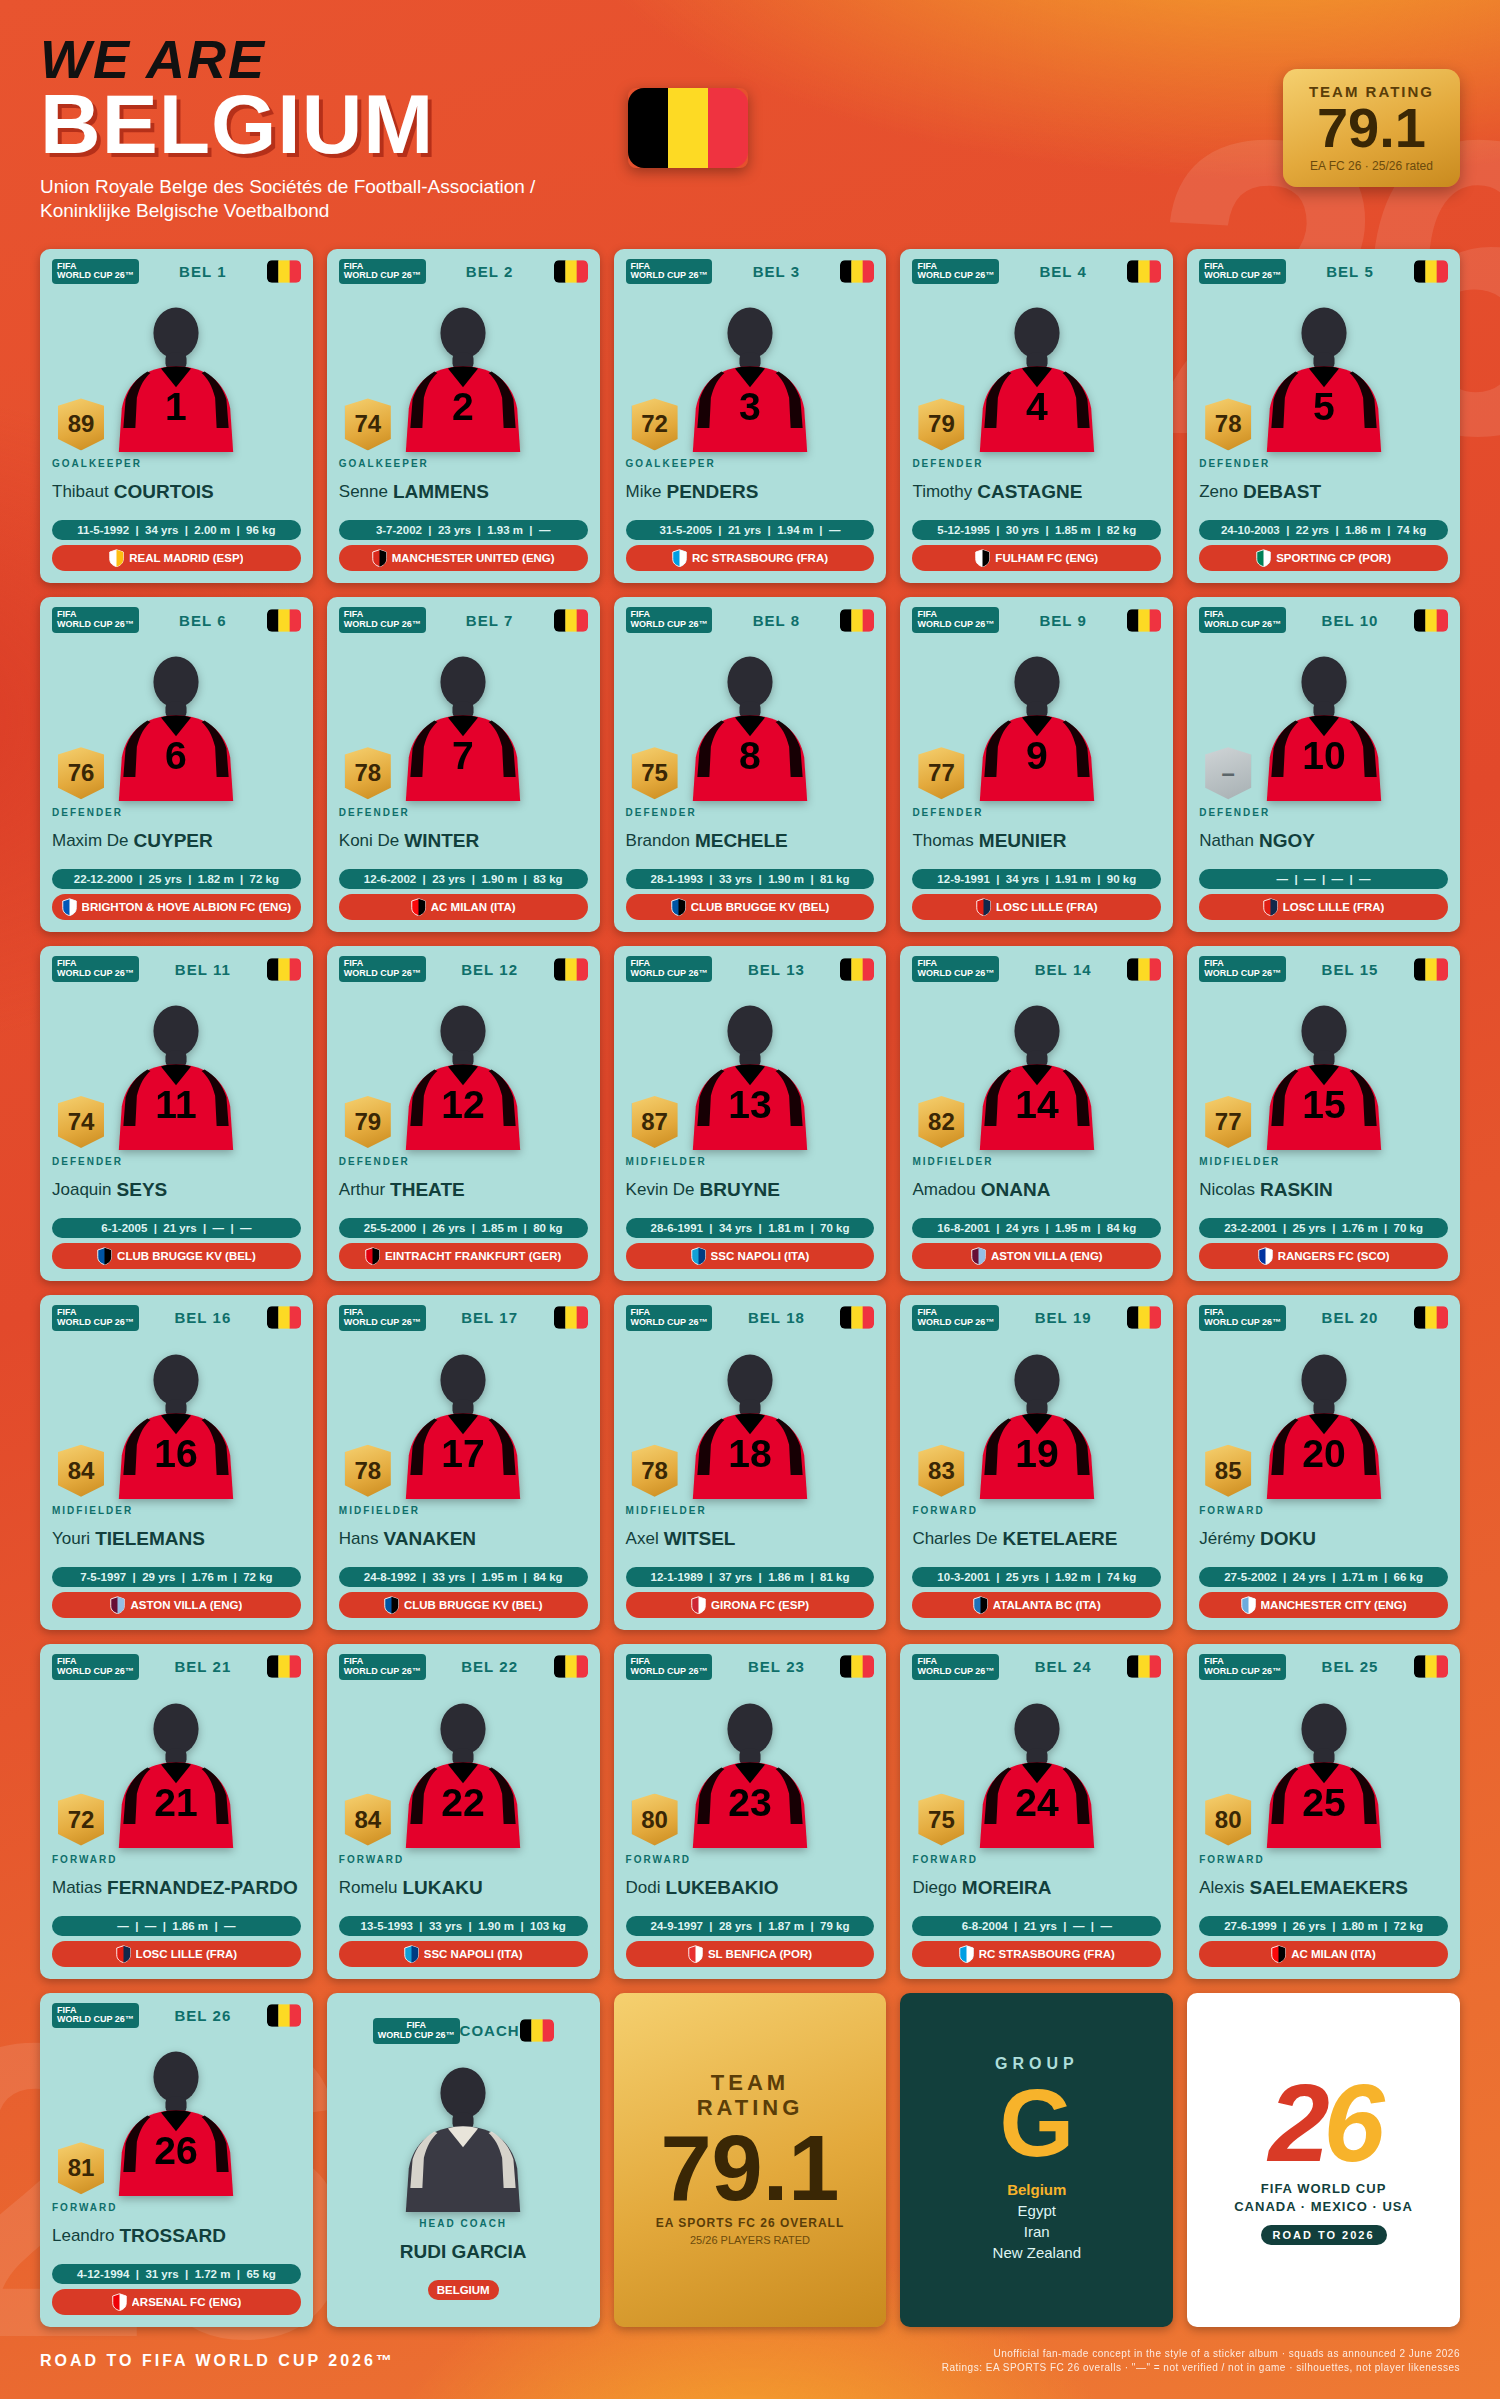
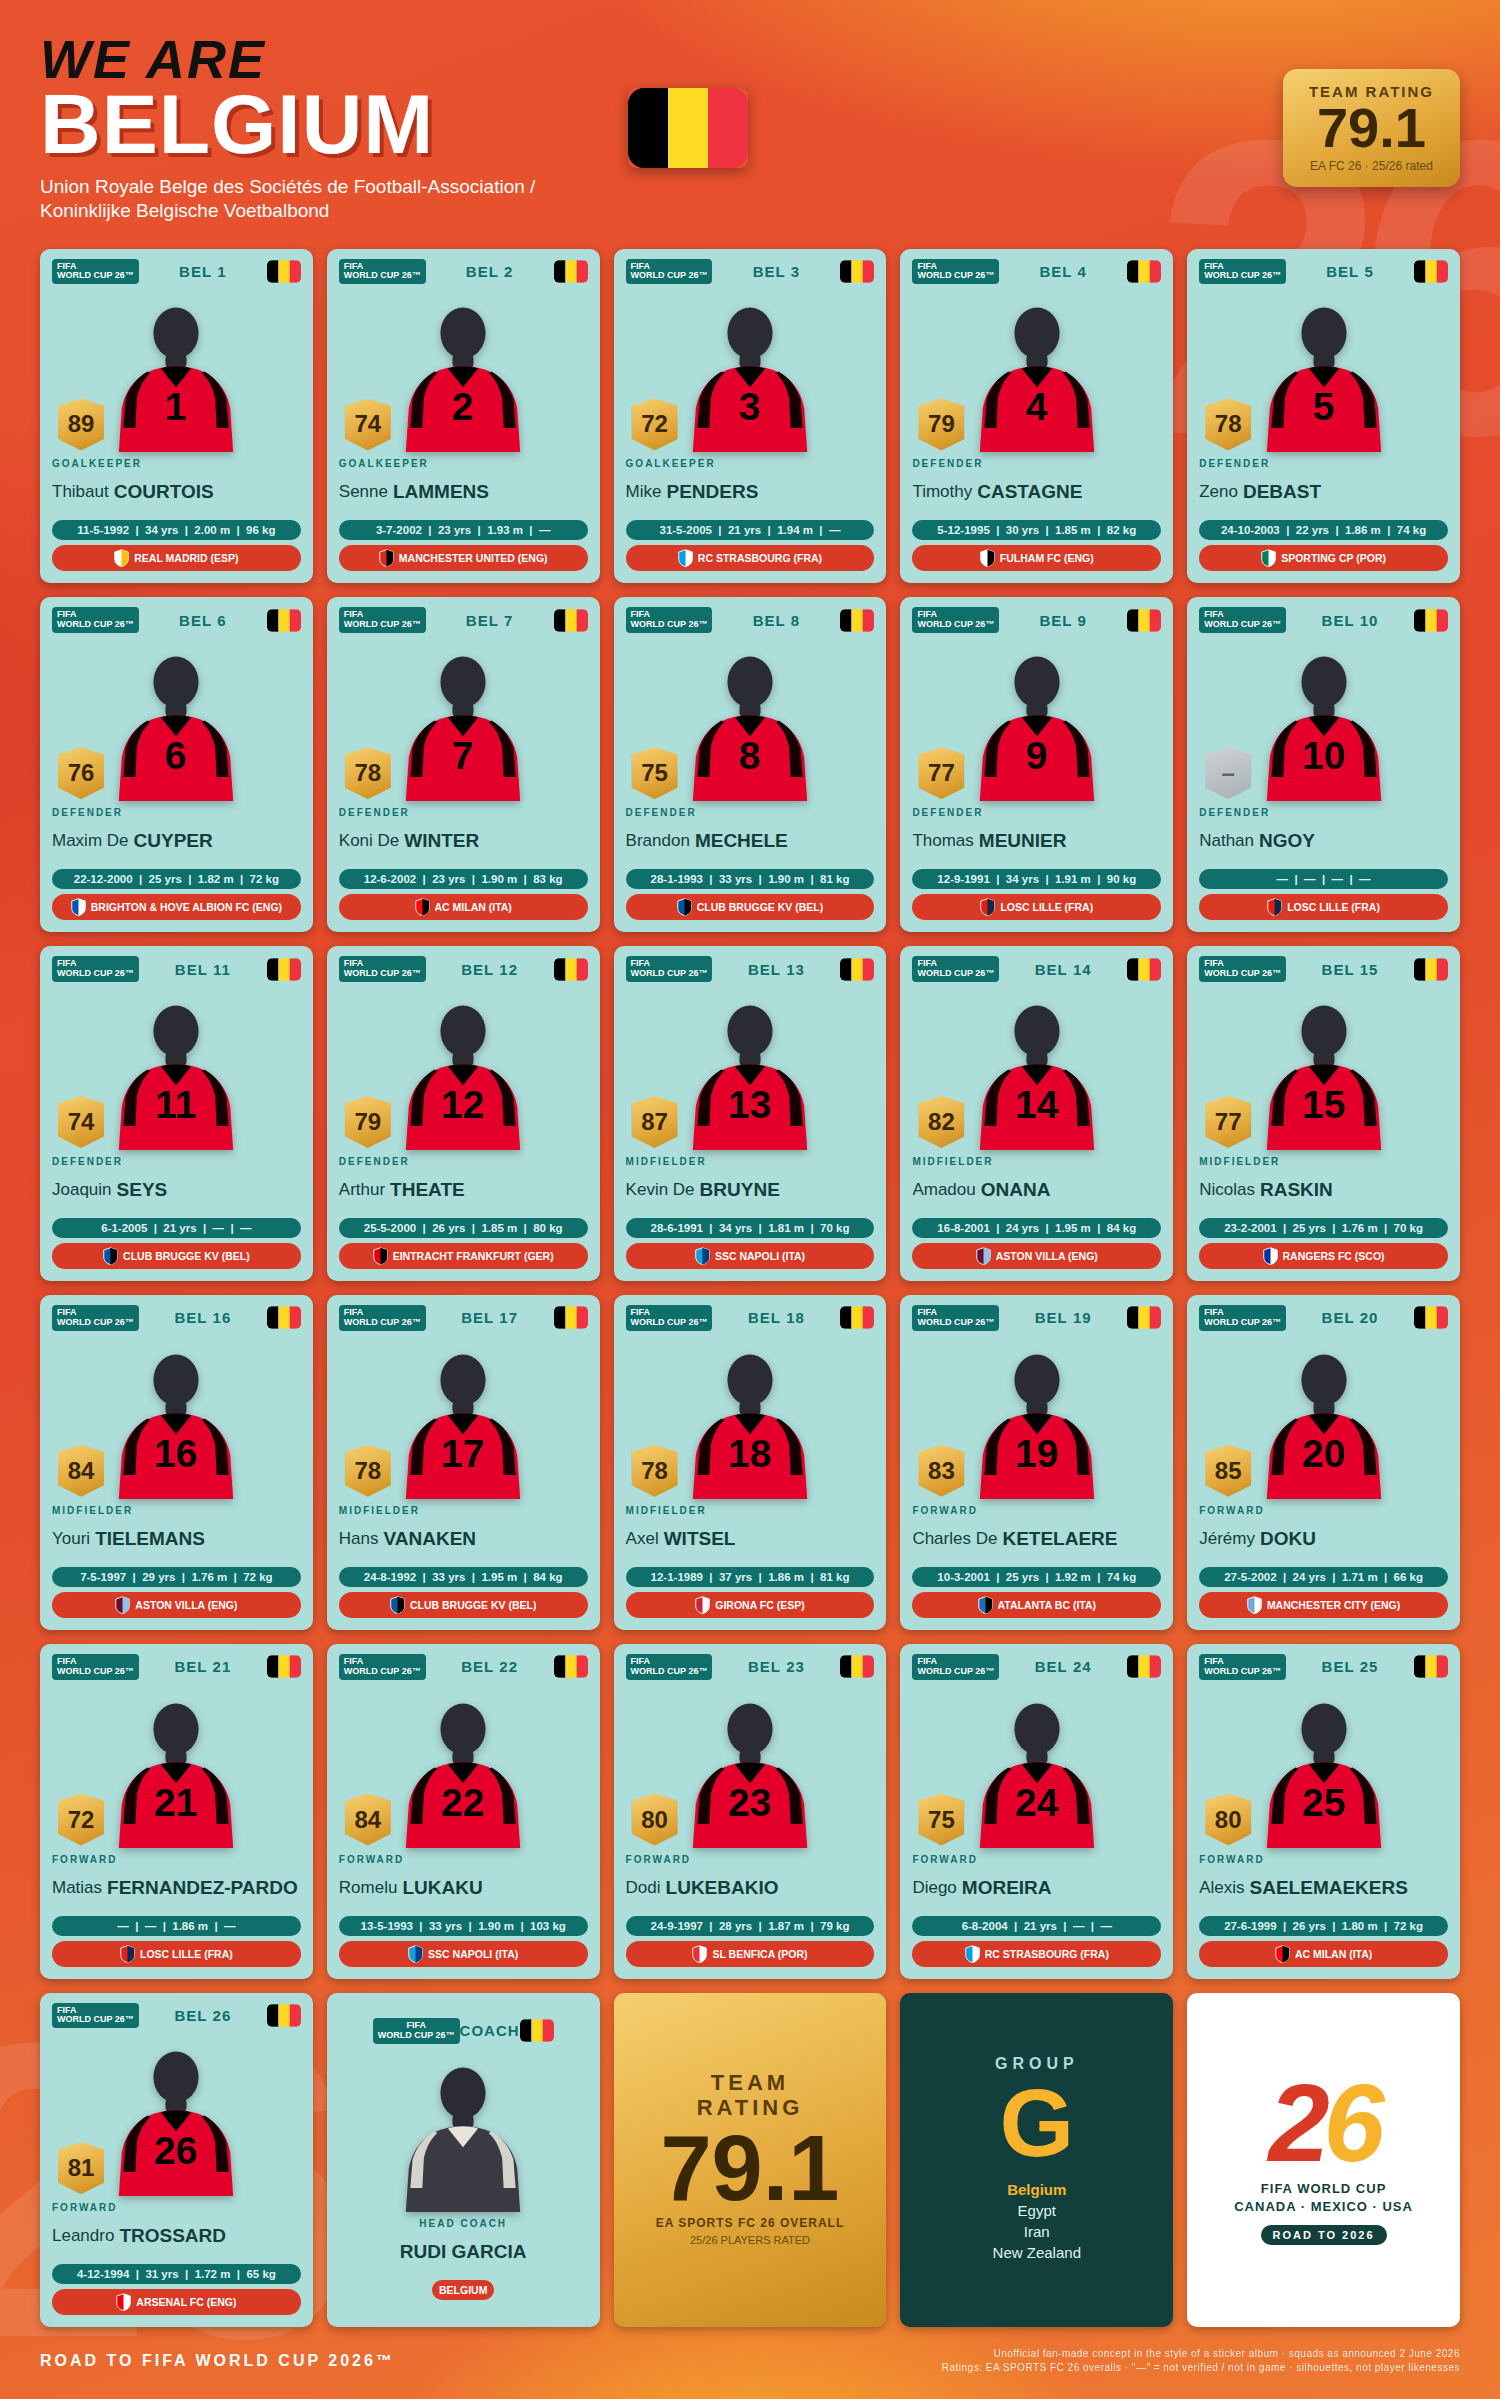
Render all 48 World Cup 2026 teamsheets and add README
Claude-Session: https://claude.ai/code/session_01Y9gQkhckg5qqQdhZXY8gKw

diff --git a/world-cup-2026-teamsheets/README.md b/world-cup-2026-teamsheets/README.md
@@ -1,0 +1,50 @@
+# 2026 FIFA World Cup Teamsheets
+
+Panini-sticker-album-style teamsheets for all 48 teams at the 2026 FIFA World Cup
+(Canada · Mexico · USA). Each team gets one generated poster (`images/<CODE>.png`)
+showing all 26 squad members with name, date of birth, age, height, weight,
+current club, and EA Sports FC 26 rating, plus a computed team average rating.
+
+This is an unofficial, fan-made concept inspired by the Panini "Road to the World
+Cup" sticker album — it is not affiliated with Panini, FIFA, or EA Sports.
+
+## Contents
+
+- `data/teams.json` — all 48 teams: group (A–L), federation name, kit colors, flag colors.
+- `data/<CODE>.json` — one file per team with the 26-man squad (final lists as announced 2 June 2026), each player's DOB, height, weight, club, and EA FC 26 overall rating.
+- `data/clubs.json` — primary/secondary color pairs for every club appearing in a squad, used to draw the stylized crest chip on each card.
+- `generate.py` — builds the HTML for each team and renders it to PNG with headless Chromium (Playwright).
+- `images/<CODE>.png` — the finished teamsheet for each team (1500px wide).
+
+## Regenerating
+
+```
+python3 generate.py            # render every team with a data file
+python3 generate.py BEL FRA     # render specific teams only
+python3 generate.py --html BEL  # write the HTML only, skip the screenshot (debugging)
+```
+
+Requires Python 3 with `playwright` installed and a Chromium build available
+(the script looks for `/opt/pw-browsers/chromium*` first, then falls back to
+whatever Playwright has installed).
+
+## Data notes and caveats
+
+- **Player art is a stylized silhouette**, not a photo — real player likenesses
+  aren't available to generate. The bust is colored in the team's kit colors
+  and carries the player's squad number.
+- **Club crests are generic stylized shields** colored in each club's primary/
+  secondary colors — they are not the clubs' official logos.
+- **"—" means unverified or unconfirmed**, not necessarily unknown. Where a
+  player's date of birth, height, weight, or EA FC 26 rating could not be
+  confirmed, the field shows a dash rather than a guessed number.
+- **Squads reflect the final 26-man lists as announced around 2 June 2026.**
+  Injury replacements and any changes after that date are not reflected.
+- **Ratings are EA SPORTS FC 26 overall ratings** at time of writing. The team
+  average shown on each sheet is computed only over players with a confirmed
+  rating (the coverage, e.g. "21/26 rated", is shown alongside it).
+- A few squads legitimately carry a non-standard position split (e.g. Egypt's
+  26-man list includes 4 goalkeepers) — the sheets render these as-is.
+- Shirt numbers use official squad numbers where the source announcement
+  included them; otherwise players are numbered 1–26 in goalkeeper → defender
+  → midfielder → forward order.
